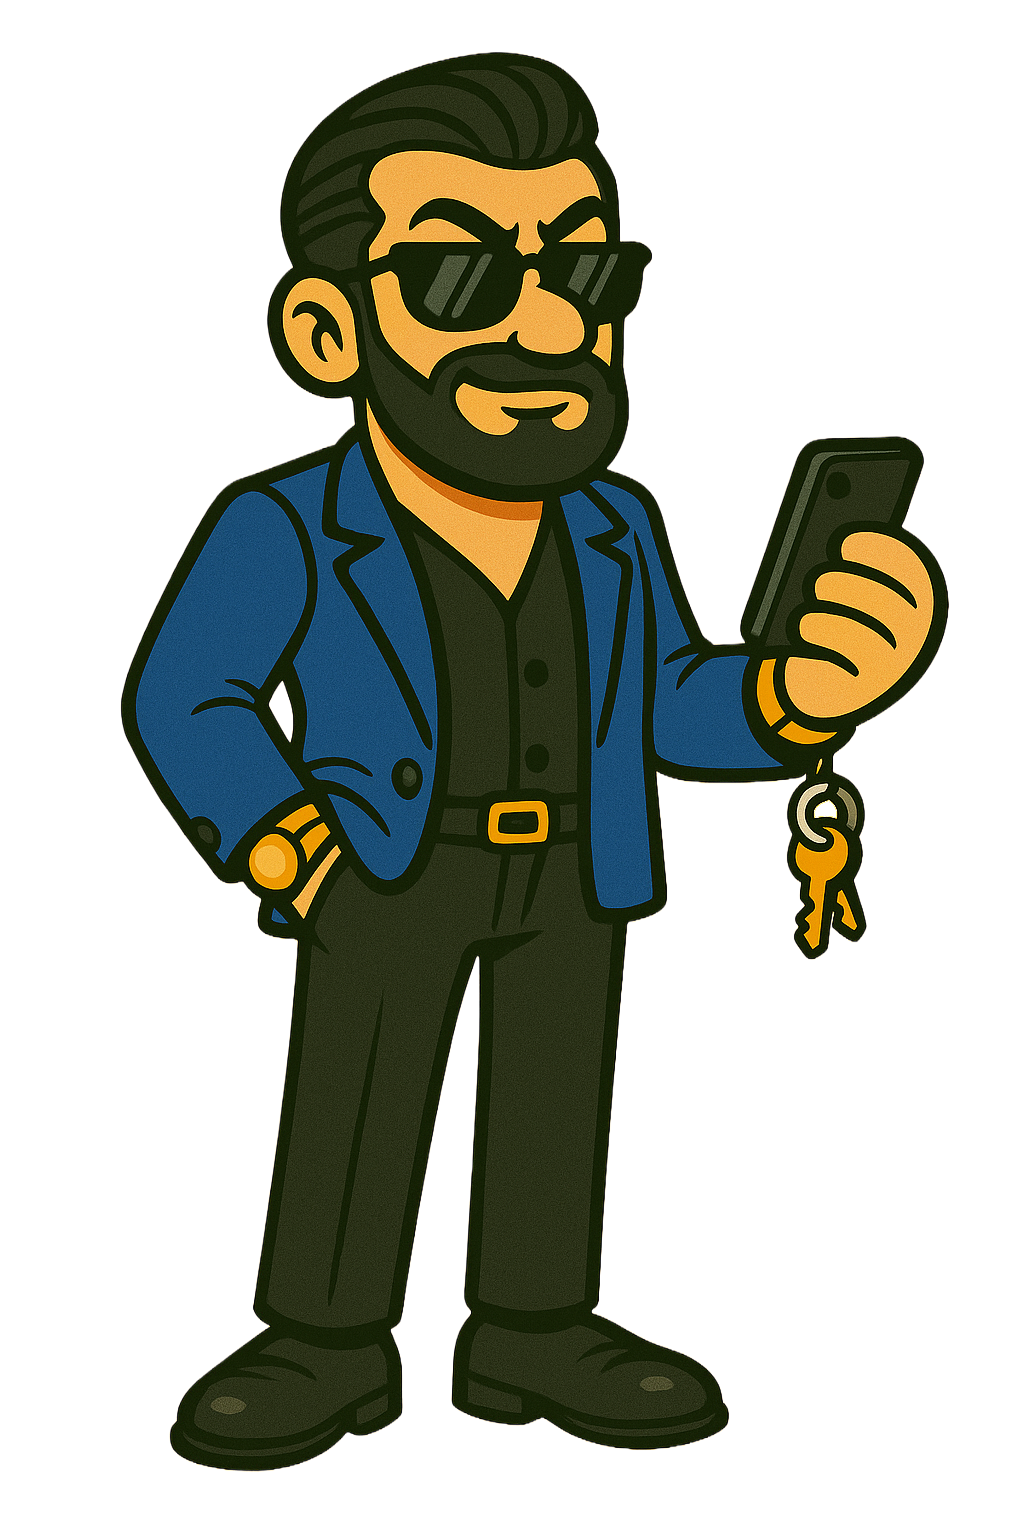
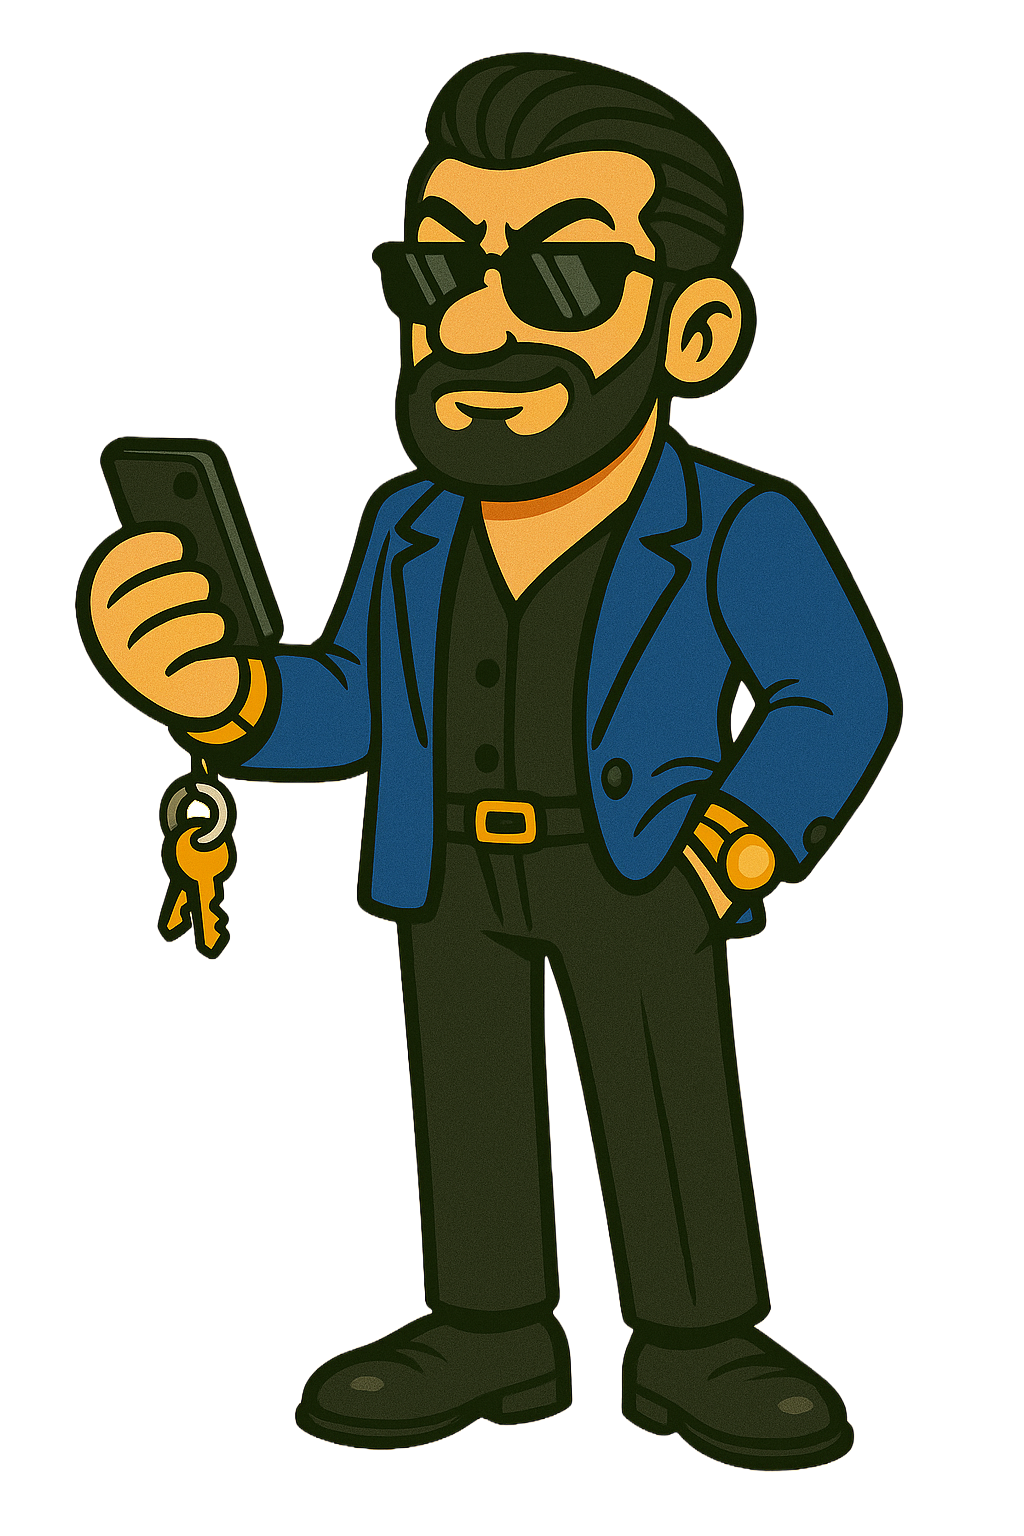
add area + direction

diff --git a/src/components/levels/GenericMinigame.tsx b/src/components/levels/GenericMinigame.tsx
@@ -116,6 +116,11 @@ export default function GenericMinigame({ theme }: GenericMinigameProps) {
   // Red overlay state
   const [redOverlayEnd, setRedOverlayEnd] = useState(0);
 
+  const facingDirection = useGameStore((s) => s.facingDirection);
+  const setFacingDirection = useGameStore((s) => s.setFacingDirection);
+  const previousMouseX = useGameStore((s) => s.previousMouseX);
+  const setPreviousMouseX = useGameStore((s) => s.setPreviousMouseX);
+
   // Set canvas size to window size
   useEffect(() => {
     const updateSize = () => {
@@ -212,18 +217,24 @@ export default function GenericMinigame({ theme }: GenericMinigameProps) {
     };
   }, []);
 
-  // Handle mouse movement
+  // Mouse movement and facing direction
   useEffect(() => {
     function handleMouse(e: MouseEvent) {
       const rect = canvasRef.current?.getBoundingClientRect();
       if (!rect) return;
       const x = e.clientX - rect.left;
+      if (x > previousMouseX) {
+        setFacingDirection('right');
+      } else if (x < previousMouseX) {
+        setFacingDirection('left');
+      }
+      setPreviousMouseX(x);
       setPlayerX(Math.max(PLAYER_RADIUS, Math.min(canvasSize.width - PLAYER_RADIUS, x)));
     }
     const canvas = canvasRef.current;
     canvas?.addEventListener('mousemove', handleMouse);
     return () => canvas?.removeEventListener('mousemove', handleMouse);
-  }, [canvasSize.width]);
+  }, [canvasSize.width, previousMouseX, setFacingDirection, setPreviousMouseX]);
 
   // Enemy spawner
   useEffect(() => {
@@ -363,12 +374,18 @@ export default function GenericMinigame({ theme }: GenericMinigameProps) {
     return () => clearInterval(interval);
   }, [minigameStartTime, running]);
 
-  // End minigame after 30s
+  // End minigame after reaching target score or after 30s
   useEffect(() => {
     if (!running) return;
+    if (score >= 100 && selectedNeighborhood) {
+      setRunning(false);
+      completeNeighborhood(selectedNeighborhood);
+      setTimeout(() => setGameState('map'), 400);
+      return;
+    }
     if (remainingTime <= 0) {
       setRunning(false);
-      // Score threshold
+      // Only complete neighborhood if score threshold met
       if (score >= 100 && selectedNeighborhood) {
         completeNeighborhood(selectedNeighborhood);
       }
@@ -575,17 +592,14 @@ export default function GenericMinigame({ theme }: GenericMinigameProps) {
 
     // Player
     if (playerImageRef.current && selectedCharacter) {
-      // Draw player character image, feet anchored to bottom
       const playerHeight = canvasSize.height * 0.23;
       const aspectRatio = playerImageRef.current.width / playerImageRef.current.height;
       const playerWidth = playerHeight * aspectRatio;
       const now = Date.now();
-      // Flicker logic
       let flicker = false;
       if (isFlickering) {
         flicker = Math.floor(now / 100) % 2 === 0;
       }
-      // Shake logic
       let shakeX = 0;
       if (shakeEndTime && now < shakeEndTime) {
         const t = (now - (shakeEndTime - 300)) / 300;
@@ -623,13 +637,26 @@ export default function GenericMinigame({ theme }: GenericMinigameProps) {
       // Draw player (with flicker and shake)
       ctx.save();
       if (flicker) ctx.globalAlpha = 0.5;
-      ctx.drawImage(
-        playerImageRef.current,
-        playerX - playerWidth / 2 + shakeX,
-        canvasSize.height - playerHeight,
-        playerWidth,
-        playerHeight
-      );
+      if (facingDirection === 'right') {
+        ctx.save();
+        ctx.scale(-1, 1);
+        ctx.drawImage(
+          playerImageRef.current,
+          -(playerX + playerWidth / 2 - shakeX),
+          canvasSize.height - playerHeight,
+          playerWidth,
+          playerHeight
+        );
+        ctx.restore();
+      } else {
+        ctx.drawImage(
+          playerImageRef.current,
+          playerX - playerWidth / 2 + shakeX,
+          canvasSize.height - playerHeight,
+          playerWidth,
+          playerHeight
+        );
+      }
       ctx.globalAlpha = 1;
       ctx.restore();
       // Red overlay

diff --git a/src/lib/gameStore.ts b/src/lib/gameStore.ts
@@ -53,6 +53,10 @@ export type GameStore = {
   clearShake: () => void;
   setAura: (type: 'point' | 'primary', startTime: number) => void;
   clearAura: () => void;
+  facingDirection: 'left' | 'right';
+  setFacingDirection: (dir: 'left' | 'right') => void;
+  previousMouseX: number;
+  setPreviousMouseX: (x: number) => void;
 };
 
 const PERMANENT_HEARTS = 5;
@@ -108,6 +112,8 @@ export const useGameStore = create<GameStore>((set) => ({
       flickerEndTime: 0,
       shakeEndTime: 0,
       aura: { type: null, startTime: 0 },
+      facingDirection: 'left',
+      previousMouseX: 0,
     }),
   selectedMinigame: null,
   setSelectedMinigame: (minigame) => set({ selectedMinigame: minigame }),
@@ -121,4 +127,8 @@ export const useGameStore = create<GameStore>((set) => ({
   clearShake: () => set({ shakeEndTime: 0 }),
   setAura: (type, startTime) => set({ aura: { type, startTime } }),
   clearAura: () => set({ aura: { type: null, startTime: 0 } }),
+  facingDirection: 'left',
+  setFacingDirection: (dir) => set({ facingDirection: dir }),
+  previousMouseX: 0,
+  setPreviousMouseX: (x) => set({ previousMouseX: x }),
 }));

diff --git a/src/ui/MapScreen.tsx b/src/ui/MapScreen.tsx
@@ -4,7 +4,7 @@ import { MAPTILER_API_KEY } from '../private/apiKeys';
 import MapScreenOverlay from './MapScreenOverlay';
 
 const TEL_AVIV_CENTER = [31.0853, 34.7818];
-const ZOOM = 14.2;
+const ZOOM = 14.3;
 
 const TEL_AVIV_BOUNDS = [
   [32.078, 34.77], // southWest (lat, lng)
@@ -20,6 +20,7 @@ const AREA_TO_MINIGAME: Record<string, string> = {
   Rothschild: 'rothschild',
   "Neve Sha'anan": 'tahanaMerkazit',
   tayelet: 'tayelet',
+  memadion: 'memadion',
 };
 
 export function MapScreen() {
@@ -251,7 +252,7 @@ export function MapScreen() {
                     "Neve Sha'anan",
                     'tayelet',
                     'Neve Tzedek',
-                    'Memadion',
+                    'memadion',
                   ];
                   if (
                     areaName &&

diff --git a/memory-bank/PRD.md b/memory-bank/PRD.md
@@ -112,6 +112,21 @@ Each neighborhood features a unique minigame with:
 - Log difficulty and spawn events for debugging.
 - Cap max enemies on screen to prevent overcrowding.
 
+- The minigame ends immediately when the player reaches the target score (100 points), regardless of remaining time. The player is returned to the map.
+- If the timer expires before reaching the target score, the minigame ends as usual.
+
+### 3.7 Player Sprite Flipping Mechanics
+
+- The player sprite is a static PNG, facing left by default.
+- When the player moves right (mouse X increases), the sprite is flipped horizontally to face right.
+- When the player moves left (mouse X decreases), the sprite faces left (default orientation).
+- When idle (no movement), the sprite maintains the last facing direction.
+- The game tracks `facingDirection: 'left' | 'right'` and `previousMouseX: number` in Zustand.
+- On each mouse movement, the game compares the current X to previousMouseX and updates facingDirection accordingly.
+- The canvas rendering loop uses `ctx.scale(-1, 1)` and position adjustment to flip the sprite when facing right, and draws normally when facing left.
+- The hitbox and collision logic are unaffected by the visual flip.
+- This mechanic is standardized across all minigames and works with all character sprites.
+
 ## 4. Features & Screens
 
 ### 4.1 Welcome Screen
